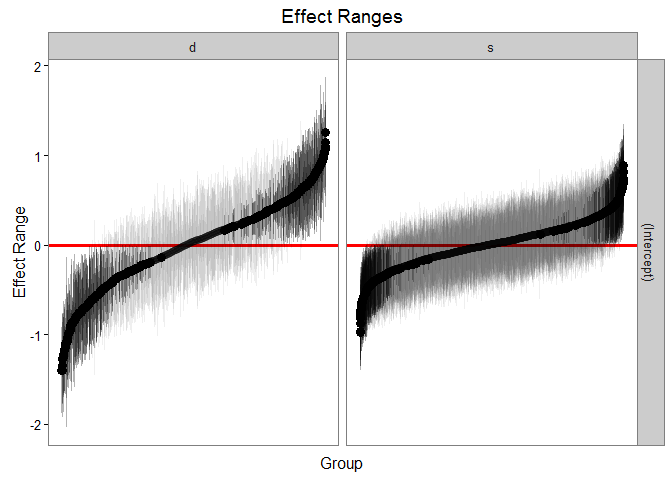
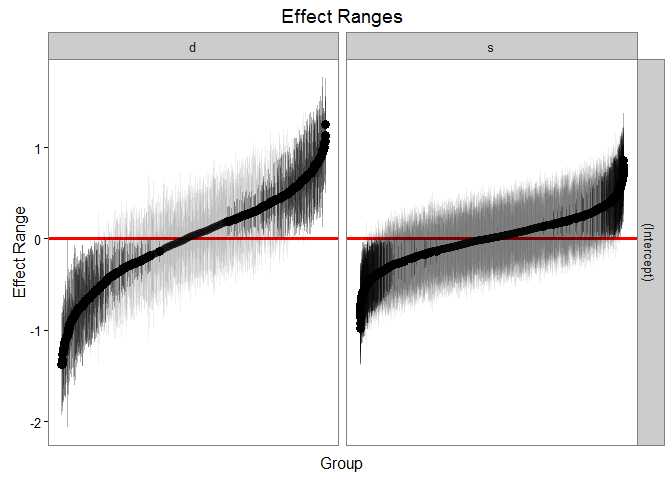
fixing typos

diff --git a/README.md b/README.md
@@ -6,7 +6,7 @@ A package for getting the most of our multilevel models in R
 
 by Jared E. Knowles and Carl Frederick
 
-[![Travis-CI Build Status](https://travis-ci.org/jknowles/merTools.png?branch=master)](https://travis-ci.org/jknowles/merTools) [![Coverage Status](https://coveralls.io/repos/jknowles/merTools/badge.svg?branch=master)](https://coveralls.io/r/jknowles/merTools?branch=master) [![Github Issues](http://githubbadges.herokuapp.com/jknowles/merTools/issues.svg)](https://github.com/jknowles/merTools/issues) [![Pending Pull-Requests](http://githubbadges.herokuapp.com/jknowles/merTools/pulls.svg?style=flat)](https://github.com/jknowles/merTools/pulls) [![CRAN\_Status\_Badge](http://www.r-pkg.org/badges/version/merTools)](https://cran.r-project.org/package=merTools) [![Downloads](http://cranlogs.r-pkg.org/badges/merTools)](https://cran.rstudio.com/web/packages/merTools/index.html)
+[![Travis-CI Build Status](https://travis-ci.org/jknowles/merTools.png?branch=master)](https://travis-ci.org/jknowles/merTools) [![Coverage Status](https://coveralls.io/repos/jknowles/merTools/badge.svg?branch=master)](https://coveralls.io/r/jknowles/merTools?branch=master) [![Github Issues](http://githubbadges.herokuapp.com/jknowles/merTools/issues.svg)](https://github.com/jknowles/merTools/issues) [![Pending Pull-Requests](http://githubbadges.herokuapp.com/jknowles/merTools/pulls.svg?style=flat)](https://github.com/jknowles/merTools/pulls) [![CRAN\_Status\_Badge](http://www.r-pkg.org/badges/version/merTools)](https://cran.r-project.org/package=merTools) [![Downloads](http://cranlogs.r-pkg.org/badges/merTools)](https://cran.r-project.org/package=merTools)
 
 Working with generalized linear mixed models (GLMM) and linear mixed models (LMM) has become increasingly easy with advances in the `lme4` package. As we have found ourselves using these models more and more within our work, we, the authors, have developed a set of tools for simplifying and speeding up common tasks for interacting with `merMod` objects from `lme4`. This package provides those tools.
 
@@ -88,17 +88,17 @@ With `predictInterval` we obtain predictions that are more like the standard obj
 #predictInterval(m1, newdata = InstEval[1:10, ]) # all other parameters are optional
 predictInterval(m1, newdata = InstEval[1:10, ], n.sims = 500, level = 0.9, 
                 stat = 'median')
-#>         fit      upr      lwr
-#> 1  3.287559 5.300586 1.104040
-#> 2  3.229892 5.075207 1.153660
-#> 3  3.307726 5.470449 1.311966
-#> 4  3.053471 5.018208 1.299256
-#> 5  3.437312 5.337975 1.375065
-#> 6  3.296146 5.235116 1.500297
-#> 7  4.236472 6.235952 2.184523
-#> 8  3.801851 5.688499 1.963856
-#> 9  3.784415 5.804556 1.815676
-#> 10 3.204516 5.232257 1.286672
+#>         fit      upr       lwr
+#> 1  3.082052 5.056804 0.8649952
+#> 2  3.086501 5.108383 1.1294496
+#> 3  3.452917 5.475593 1.3751636
+#> 4  3.110747 5.238580 1.3059517
+#> 5  3.250421 5.424612 1.3282933
+#> 6  3.269904 5.175770 1.1517861
+#> 7  4.195380 6.189295 2.1812415
+#> 8  3.794002 5.812931 1.8695224
+#> 9  3.784205 5.725675 1.6076042
+#> 10 3.271096 5.288093 1.3483488
 ```
 
 Note that `predictInterval` is slower because it is computing simulations. It can also return all of the simulated `yhat` values as an attribute to the predict object itself.
@@ -114,12 +114,12 @@ Plotting
 feSims <- FEsim(m1, n.sims = 100)
 head(feSims)
 #>          term        mean      median         sd
-#> 1 (Intercept)  3.22635911  3.22726590 0.01868970
-#> 2    service1 -0.06862613 -0.06853439 0.01152868
-#> 3   lectage.L -0.18628196 -0.18817151 0.01448635
-#> 4   lectage.Q  0.02315816  0.02379139 0.01066136
-#> 5   lectage.C -0.02355269 -0.02380259 0.01076683
-#> 6   lectage^4 -0.01967984 -0.01908929 0.01430187
+#> 1 (Intercept)  3.22357349  3.22183309 0.01926783
+#> 2    service1 -0.07276292 -0.07097832 0.01374632
+#> 3   lectage.L -0.18451684 -0.18414189 0.01618602
+#> 4   lectage.Q  0.02599279  0.02595477 0.01290819
+#> 5   lectage.C -0.02523322 -0.02460442 0.01306563
+#> 6   lectage^4 -0.02154374 -0.02234751 0.01286192
 ```
 
 And we can also plot this:
@@ -136,12 +136,12 @@ We can also quickly make caterpillar plots for the random-effect terms:
 reSims <- REsim(m1, n.sims = 100)
 head(reSims)
 #>   groupFctr groupID        term        mean      median        sd
-#> 1         s       1 (Intercept)  0.20497338  0.22567935 0.3190433
-#> 2         s       2 (Intercept) -0.05233047 -0.06646264 0.2861745
-#> 3         s       3 (Intercept)  0.31615388  0.30443395 0.2841719
-#> 4         s       4 (Intercept)  0.23736099  0.24449046 0.2956142
-#> 5         s       5 (Intercept)  0.05754080  0.07431858 0.3131179
-#> 6         s       6 (Intercept)  0.07356456  0.06119731 0.2473840
+#> 1         s       1 (Intercept)  0.14512821 0.159225755 0.3119051
+#> 2         s       2 (Intercept) -0.02956212 0.005732783 0.3398890
+#> 3         s       3 (Intercept)  0.23795914 0.220746123 0.2787503
+#> 4         s       4 (Intercept)  0.21835479 0.208063255 0.3150879
+#> 5         s       5 (Intercept)  0.05122793 0.055730331 0.3072619
+#> 6         s       6 (Intercept)  0.11666196 0.133981472 0.2392858
 ```
 
 ``` r
@@ -177,11 +177,11 @@ impSim <- REimpact(m1, InstEval[7, ], groupFctr = "d", breaks = 5,
 #> Warning: executing %dopar% sequentially: no parallel backend registered
 impSim
 #>   case bin   AvgFit     AvgFitSE nobs
-#> 1    1   1 3.212654 3.286716e-05  193
-#> 2    1   2 3.218521 3.130432e-05  240
-#> 3    1   3 3.219158 2.829058e-05  254
-#> 4    1   4 3.216535 2.425084e-05  265
-#> 5    1   5 3.226097 4.278046e-05  176
+#> 1    1   1 3.223949 3.716883e-05  193
+#> 2    1   2 3.218637 2.832343e-05  240
+#> 3    1   3 3.222647 2.774317e-05  254
+#> 4    1   4 3.237186 2.873087e-05  265
+#> 5    1   5 3.222473 5.022054e-05  176
 ```
 
 The result of `REimpact` shows the change in the `yhat` as the case we supplied to `newdata` is moved from the first to the fifth quintile in terms of the magnitude of the group factor coefficient. We can see here that the individual professor effect has a strong impact on the outcome variable. This can be shown graphically as well:
